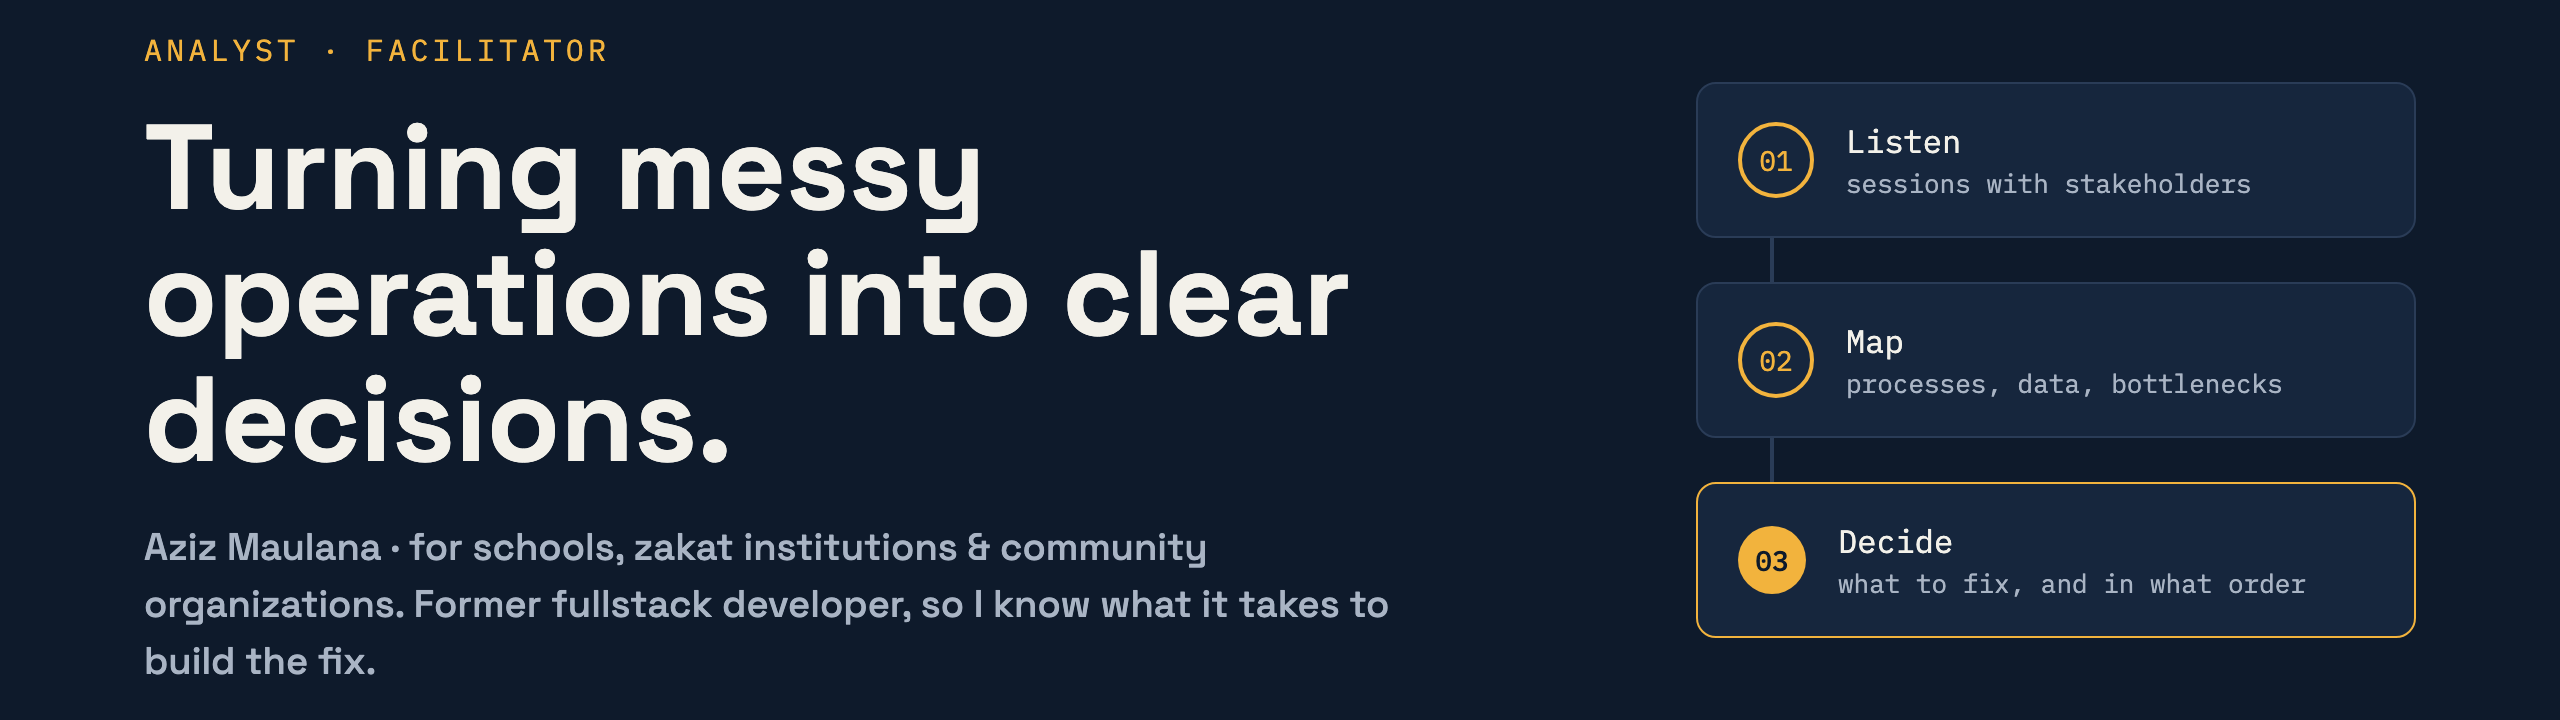
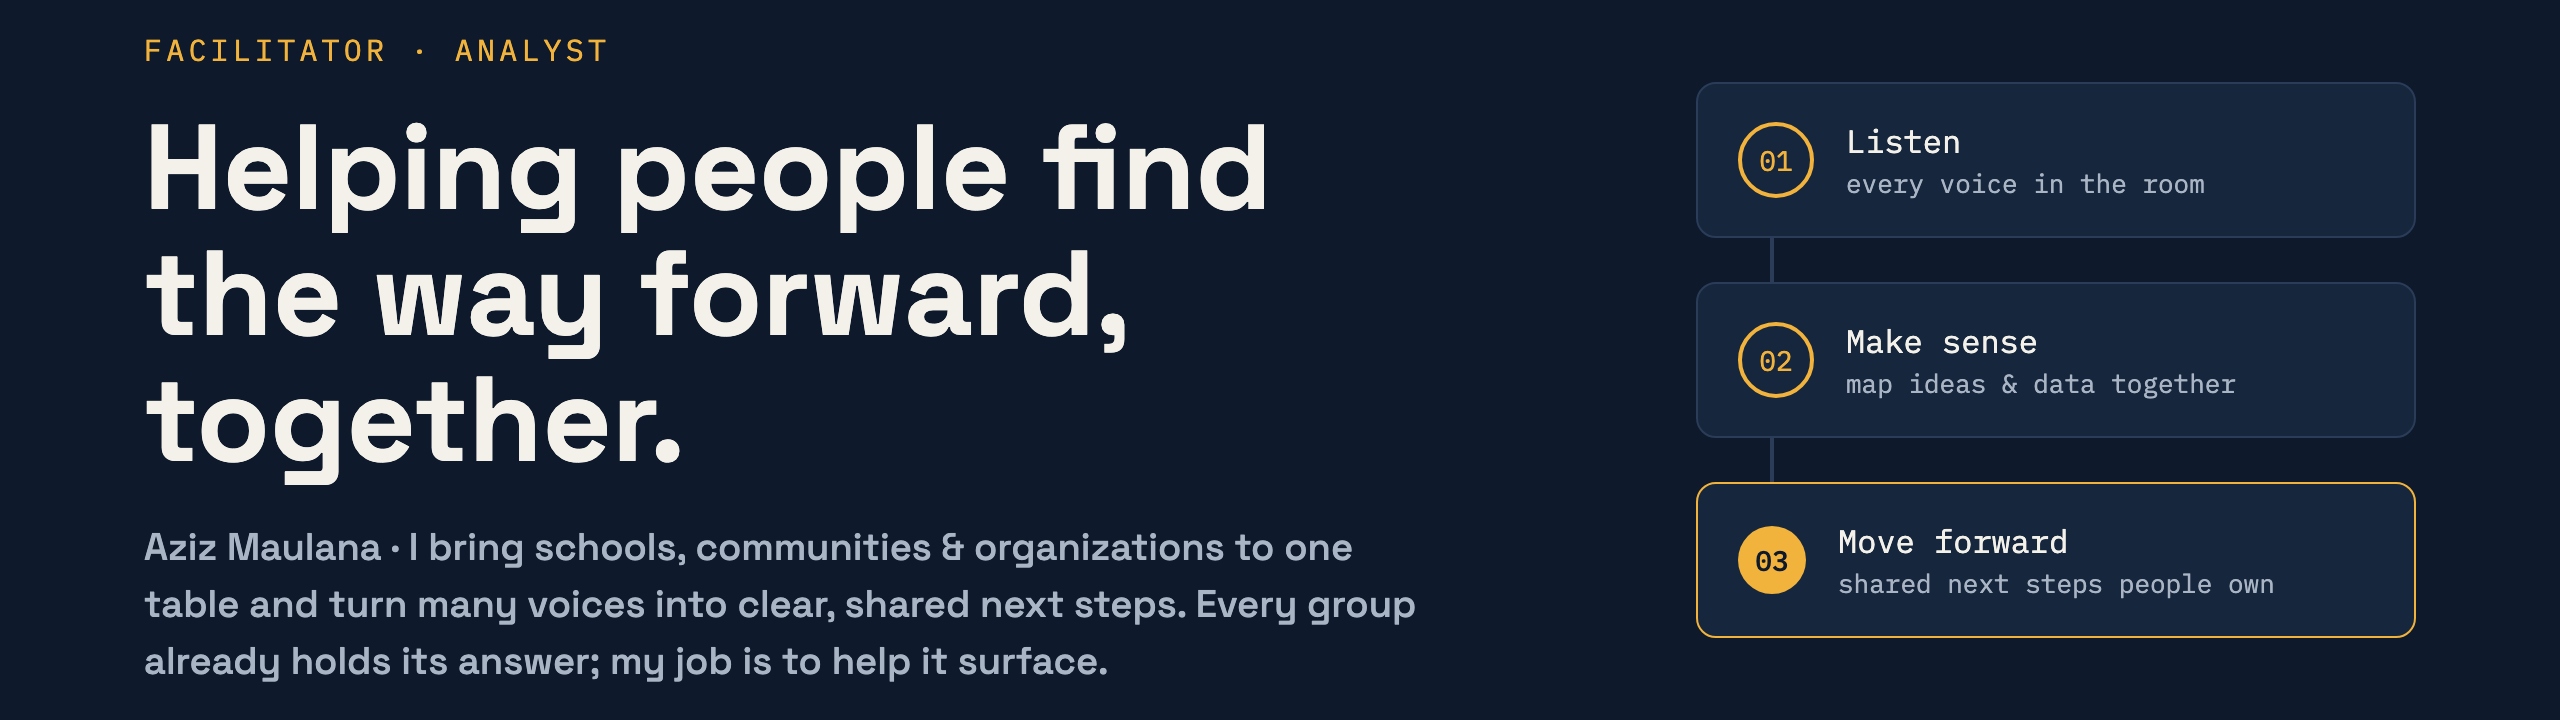
Facilitator-first, optimistic narrative; add leadership

diff --git a/README.md b/README.md
@@ -1,38 +1,39 @@
 <p align="center">
-  <img src="assets/banner.png" alt="Aziz — Analyst & Facilitator: turning messy operations into clear decisions" width="100%">
+  <img src="assets/banner.png" alt="Aziz Maulana, Facilitator & Analyst: helping people find the way forward, together" width="100%">
 </p>
 
 <p align="center">
-  <img src="https://readme-typing-svg.demolab.com?font=Space+Grotesk&weight=600&size=22&pause=1200&color=F2B33D&center=true&vCenter=true&width=640&lines=Business+%26+Systems+Analyst;Workshop+Facilitator;Bridging+stakeholders+and+tech+teams" alt="Business & Systems Analyst · Workshop Facilitator · Bridging stakeholders and tech teams">
+  <img src="https://readme-typing-svg.demolab.com?font=Space+Grotesk&weight=600&size=22&pause=1200&color=F2B33D&center=true&vCenter=true&width=640&lines=Facilitator;Systems+Analyst;Every+group+already+holds+its+answer" alt="Facilitator · Systems Analyst · Every group already holds its answer">
 </p>
 
 <p align="center">
   <a href="https://www.linkedin.com/in/aziz-maulana-62362b1b9"><img src="https://img.shields.io/badge/LinkedIn-Connect-0A66C2?style=flat-square&logo=linkedin&logoColor=white" alt="LinkedIn"></a>
   <a href="mailto:workazizmaulana@gmail.com"><img src="https://img.shields.io/badge/Email-Say_hi-F2B33D?style=flat-square&logo=gmail&logoColor=0E1A2B" alt="Email"></a>
-  <img src="https://img.shields.io/badge/Open_to-Analyst_%26_Facilitator_roles-0E1A2B?style=flat-square" alt="Open to Analyst & Facilitator roles">
+  <img src="https://img.shields.io/badge/Open_to-Facilitator_%26_Analyst_roles-0E1A2B?style=flat-square" alt="Open to Facilitator & Analyst roles">
   <img src="https://img.shields.io/badge/Based_in-Jakarta-16263D?style=flat-square" alt="Based in Jakarta">
 </p>
 
 ### Hi, I'm Aziz Maulana 👋
 
-I help schools, zakat institutions, and community organizations **understand how they actually work, find where they're stuck, and agree on what to fix**.
-Before this I spent 4+ years as a fullstack developer building their systems, so I know what a good requirement looks like from both sides of the table.
+I believe every group already holds the answer it needs; it just needs the right room to find it.
+I help schools, communities, and organizations **listen to each other, make sense of what they know, and leave with next steps they truly own**.
+Seven years of organizing and 4+ years of building systems taught me the same lesson: things move when people feel heard.
 
-#### 📊 What I do
+#### 🤝 What I do
 
-- **Process & data analysis**: map workflows, find bottlenecks, and turn messy operational data into decisions
-- **Facilitation**: run discovery and requirement sessions with non-technical stakeholders (school leaders, NGO staff, community admins)
-- **Bridging business ↔ tech**: translate needs into specs that developers can build
+- **Facilitation**: open space for every voice, from school leaders and NGO staff to community volunteers, and guide it toward agreement
+- **Sense-making with data**: map processes and numbers together, so the picture is shared, not imposed
+- **From hope to plan**: translate what people want into steps teams can actually build and carry
 
-#### 🌱 Impact so far
+#### 🌱 What we built together
 
-<img src="assets/impact.png" alt="Impact so far: national organization, education finance, events, social impact, public data" width="100%">
+<img src="assets/impact.png" alt="Impact: national organization, leadership, education finance, social impact, public data" width="100%">
 
 | Area | What I did | Scale / result |
 |---|---|---|
 | National organization | Active cadre of IPM since 2019 (7+ years of organizing); Director, Central Data & IT Institute of PP IPM (2021–2026): turned multi-stakeholder needs into workflows for membership, finance, events, ID cards & dashboards on MY IPM | Platform with 90k+ registered members, 70k+ accounts, 6k+ leadership units |
 | Education finance | Analyzed billing, discount, payment & receivable rules across many schools for a multi-school edtech platform (2022–now) and made them traceable in reports | 4+ years of production cycles, incl. institution migrations |
-| Events & learning | Mapped the participant journey of an event & learning platform: registration → payment → attendance → evaluation → certificate, and protected it against duplicate records | Verified under 30 simultaneous requests |
+| Leadership | Served as director of an institute and as secretary general (Sekum) of an organization: setting agendas, guiding meetings, keeping people and decisions moving | Years of practice holding a room together |
 | Social impact | Co-founded a social-impact startup (2023–2026); ran product discovery with organizations and shaped open-source tools for zakat crowdfunding and community organization management (member CRM + impact reports) | Field needs translated into product decisions |
 | Public data | Mapped education facilities from OpenStreetMap to show coverage gaps | 160 facilities mapped (Depok, Sleman) |
 
@@ -48,7 +49,7 @@ Before this I spent 4+ years as a fullstack developer building their systems, so
 
 **Analysis:** SQL · Python · spreadsheets · OpenStreetMap/Overpass · process mapping
 **Thinking frameworks:** Ishikawa (root cause) · Porter's Five Forces · PESTEL
-**Facilitation:** discovery workshops · requirement elicitation · stakeholder alignment
+**Facilitation:** discovery sessions · meeting design · consensus building · stakeholder alignment
 
 <details>
 <summary><b>Technical background</b> (for the engineers reading this)</summary>
@@ -60,7 +61,7 @@ Before this I spent 4+ years as a fullstack developer building their systems, so
 
 #### 🔭 Currently
 
-- Looking for **Business / Systems Analyst** or **Facilitator** roles in **education, health, environment, or technology**, in Indonesia or abroad
-- Building a habit of data-driven analysis and writing; preparing to teach and mentor
+- Looking for **Facilitator** or **Systems Analyst** roles in **education, health, environment, or technology**, in Indonesia or abroad
+- Growing as a teacher and mentor; writing data-driven reflections along the way
 - Lenses I bring: systems thinking, economics, philosophy & anthropology
 - Portfolio & case studies: [portfolio.azman.id](https://portfolio.azman.id)
